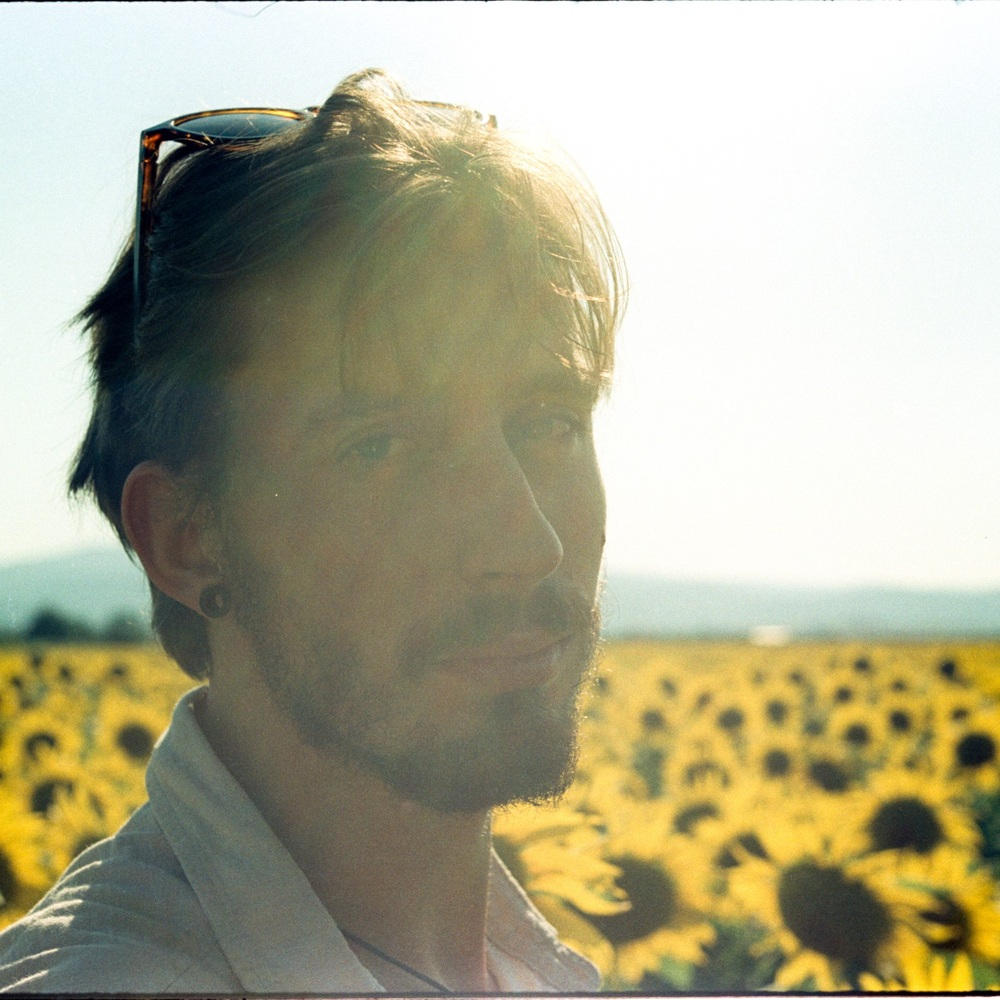
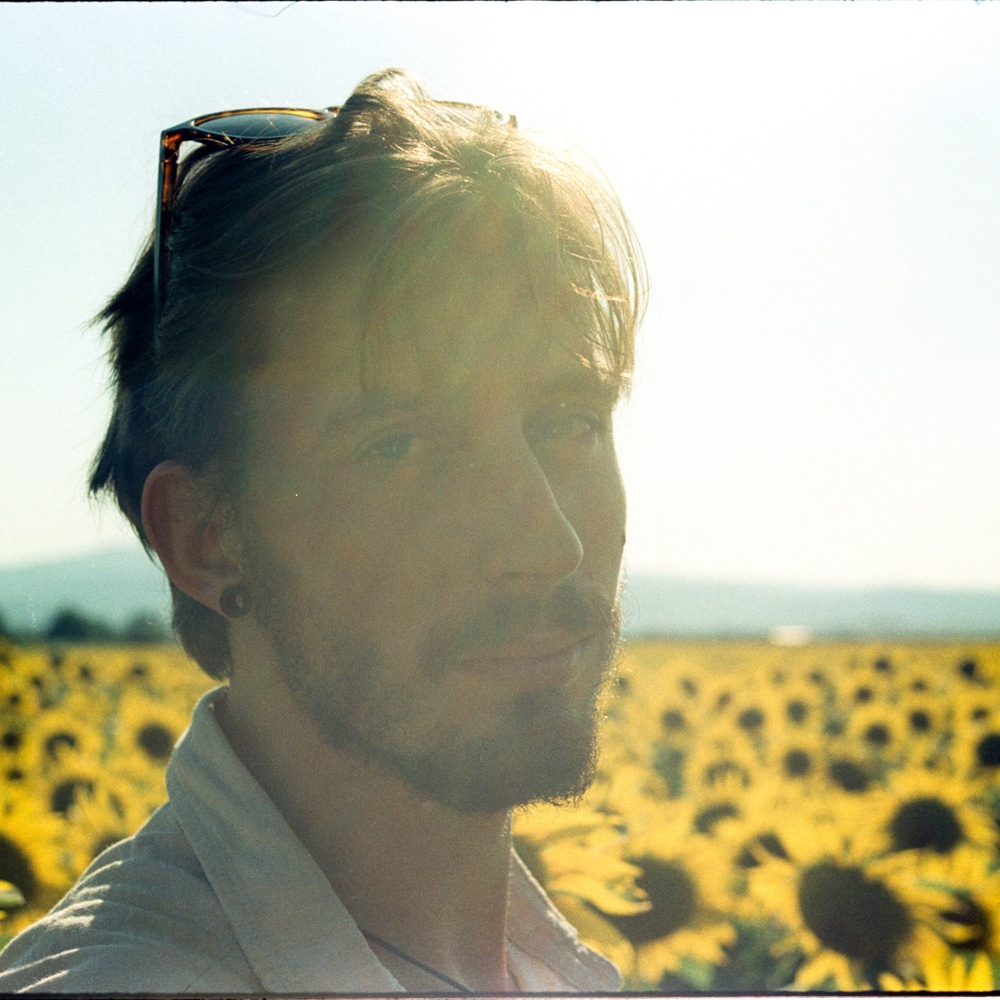
Add files via upload

diff --git a/style.css b/style.css
@@ -957,3 +957,218 @@ body.lightbox-open{overflow:hidden}
     display: none;
   }
 }
+
+
+/* =========================================================
+   v12 typography spacing + precision contact panel
+   ========================================================= */
+
+/* Section descriptors are intentionally removed from the markup.
+   The kicker + large title now have a clean single hierarchy. */
+#35mm .section-top,
+#films .section-top {
+  margin-bottom: 52px;
+}
+
+#films {
+  padding-top: 78px;
+}
+
+#films .section-top {
+  margin-bottom: 50px;
+}
+
+/* Keep the heading itself visually isolated from the content below. */
+#films .section-heading-copy,
+#35mm .section-heading-copy {
+  gap: 0;
+}
+
+#films .section-kicker,
+#35mm .section-kicker {
+  margin-bottom: 16px;
+}
+
+#contact {
+  padding-top: 110px;
+  padding-bottom: 112px;
+}
+
+#contact .section-top {
+  margin-bottom: 58px;
+}
+
+/* A restrained, grid-based contact panel. */
+#contact .contact-grid {
+  display: grid;
+  grid-template-columns: repeat(2, minmax(0, 1fr));
+  gap: 1px;
+  padding: 1px;
+  background: rgba(24,24,21,.20);
+  border: 1px solid rgba(24,24,21,.20);
+}
+
+#contact .contact-card {
+  min-height: 94px;
+  margin: 0;
+  border: 0;
+  border-radius: 0;
+  box-shadow: none;
+  display: grid;
+  grid-template-columns: auto minmax(0,1fr) auto;
+  align-items: center;
+  gap: 16px;
+  padding: 19px 20px;
+  background: #e7e2d9;
+  transition: background .18s ease, transform .18s ease;
+}
+
+#contact .contact-card:hover {
+  background: #ddd7cc;
+  transform: none;
+}
+
+#contact .contact-instagram {
+  grid-column: 1 / -1;
+  min-height: 122px;
+  background: #181816;
+  color: #fff;
+  padding: 22px 24px;
+}
+
+#contact .contact-instagram:hover {
+  background: #10100f;
+}
+
+#contact .contact-avatar {
+  width: 76px;
+  height: 76px;
+  flex: 0 0 76px;
+  border: 1px solid rgba(255,255,255,.35);
+  background: #111;
+}
+
+#contact .contact-avatar img {
+  width: 100%;
+  height: 100%;
+  object-fit: cover;
+  display: block;
+}
+
+#contact .contact-card-copy {
+  min-width: 0;
+  display: flex;
+  flex-direction: column;
+  gap: 5px;
+}
+
+#contact .contact-card-copy strong {
+  font-size: 15px;
+  line-height: 1.05;
+  letter-spacing: -.02em;
+}
+
+#contact .contact-card-copy span {
+  font-size: 8px;
+  letter-spacing: .1em;
+  text-transform: uppercase;
+  color: #77736b;
+}
+
+#contact .contact-instagram .contact-card-copy span {
+  color: #aaa59b;
+}
+
+#contact .contact-arrow {
+  width: 30px;
+  height: 30px;
+  display: grid;
+  place-items: center;
+  border: 1px solid rgba(24,24,21,.18);
+  font-size: 11px;
+}
+
+#contact .contact-instagram .contact-arrow {
+  border-color: rgba(255,255,255,.28);
+}
+
+#contact .contact-mark {
+  width: 40px;
+  height: 40px;
+  display: grid;
+  place-items: center;
+  margin: 0;
+  border: 1px solid rgba(24,24,21,.22);
+  background: #eeeae2;
+  font-size: 10px;
+  font-weight: 700;
+}
+
+#contact .contact-email {
+  background: #f3f0e8;
+}
+
+#contact .contact-imdb {
+  background: #e7e2d9;
+}
+
+#contact .contact-imdb .contact-mark {
+  background: #f5c518;
+}
+
+#contact .contact-500px {
+  background: #e1dcd3;
+}
+
+#contact .contact-note {
+  margin-top: 28px;
+  margin-bottom: 0;
+  padding-top: 15px;
+  border-top: 1px solid rgba(24,24,21,.16);
+  font-size: 8px;
+}
+
+@media (max-width: 800px) {
+  #films {
+    padding-top: 58px;
+  }
+
+  #35mm .section-top,
+  #films .section-top {
+    margin-bottom: 40px;
+  }
+
+  #films .section-kicker,
+  #35mm .section-kicker {
+    margin-bottom: 11px;
+  }
+
+  #contact {
+    padding-top: 82px;
+    padding-bottom: 82px;
+  }
+
+  #contact .contact-grid {
+    grid-template-columns: 1fr;
+  }
+
+  #contact .contact-instagram {
+    grid-column: auto;
+    min-height: 100px;
+  }
+
+  #contact .contact-card {
+    min-height: 82px;
+    padding: 16px;
+  }
+
+  #contact .contact-avatar {
+    width: 62px;
+    height: 62px;
+    flex-basis: 62px;
+  }
+
+  #contact .contact-card-copy strong {
+    font-size: 13px;
+  }
+}

diff --git a/index.html b/index.html
@@ -8,7 +8,7 @@
 <link rel="preconnect" href="https://fonts.googleapis.com">
 <link rel="preconnect" href="https://fonts.gstatic.com" crossorigin>
 <link href="https://fonts.googleapis.com/css2?family=DM+Mono:wght@400;500&family=Inter:wght@400;500;600&display=swap" rel="stylesheet">
-<link rel="stylesheet" href="style.css?v=11">
+<link rel="stylesheet" href="style.css?v=12">
 </head>
 <body>
 <header class="site-header">
@@ -43,7 +43,6 @@
   <section id="35mm" class="section archive">
     <div class="section-top">
       <div><span class="num mono">01</span><h2>35MM PHOTOGRAPHY</h2></div>
-      <p>Selected frames from the archive</p>
     </div>
 
     <div class="archive-intro">
@@ -69,7 +68,6 @@
   <section id="films" class="section films">
     <div class="section-top">
       <div><span class="num mono">02</span><div class="section-heading-copy"><span class="section-kicker mono">CINEMATOGRAPHY / MOVING IMAGE</span><h2>WORK PROJECTS</h2></div></div>
-      <p>Moving image work</p>
     </div>
 
     <div class="films-intro">
@@ -146,9 +144,9 @@
         <span class="contact-arrow mono">↗</span>
       </a>
 
-      <a class="contact-card contact-500px" href="https://500px.com/p/samardala" target="_blank" rel="noopener">
-        <span class="contact-mark">500</span>
-        <span class="contact-card-copy"><strong>500px</strong><span>samardala</span></span>
+      <a class="contact-card" href="https://www.facebook.com/chu6kopek/" target="_blank" rel="noopener">
+        <span class="contact-mark">f</span>
+        <span class="contact-card-copy"><strong>Facebook</strong><span>chu6kopek</span></span>
         <span class="contact-arrow mono">↗</span>
       </a>
 
@@ -168,15 +166,15 @@
         <span class="contact-arrow mono">↗</span>
       </a>
 
-      <a class="contact-card" href="https://www.facebook.com/chu6kopek/" target="_blank" rel="noopener">
-        <span class="contact-mark">f</span>
-        <span class="contact-card-copy"><strong>Facebook</strong><span>chu6kopek</span></span>
-        <span class="contact-arrow mono">↗</span>
-      </a>
-
       <a class="contact-card" href="https://www.behance.net/tangra" target="_blank" rel="noopener">
         <span class="contact-mark">Bē</span>
         <span class="contact-card-copy"><strong>Behance</strong><span>tangra</span></span>
+        <span class="contact-arrow mono">↗</span>
+      </a>
+
+      <a class="contact-card contact-500px" href="https://500px.com/p/samardala" target="_blank" rel="noopener">
+        <span class="contact-mark">500</span>
+        <span class="contact-card-copy"><strong>500px</strong><span>samardala</span></span>
         <span class="contact-arrow mono">↗</span>
       </a>
 

diff --git a/README.md b/README.md
@@ -1,11 +1,11 @@
-# Aleksandar Atanasov — portfolio v11
+# Aleksandar Atanasov — portfolio v12
 
 Static HTML/CSS/JS portfolio for GitHub Pages.
 
-Changes in v11:
-- Fullscreen 35mm viewer now supports previous/next without closing.
-- Arrow keys, mouse wheel and mobile swipe navigate between photos.
-- 35mm grid redesigned as a photolab/contact-sheet style with scanner-like borders and columns.
-- Added 500px contact link.
-- Instagram contact uses the supplied sunflower-field portrait, cropped around the face.
-- Previous v10 work is preserved separately.
+Changes in v12:
+- Removed the two redundant section descriptor lines that were colliding with 35MM PHOTOGRAPHY and WORK PROJECTS.
+- Reduced the top spacing of WORK PROJECTS.
+- Redesigned CONTACTS as a cleaner precision grid with a featured Instagram row.
+- Contact order: Instagram, Facebook, Email, IMDb, Behance, 500px, YouTube.
+- Re-cropped the Instagram profile portrait slightly left to center the head better.
+- v11 remains preserved separately.
